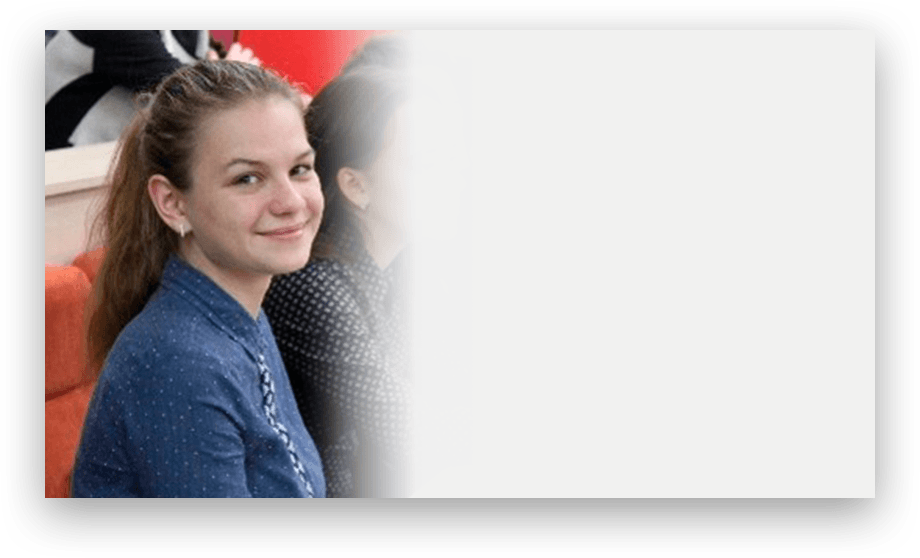
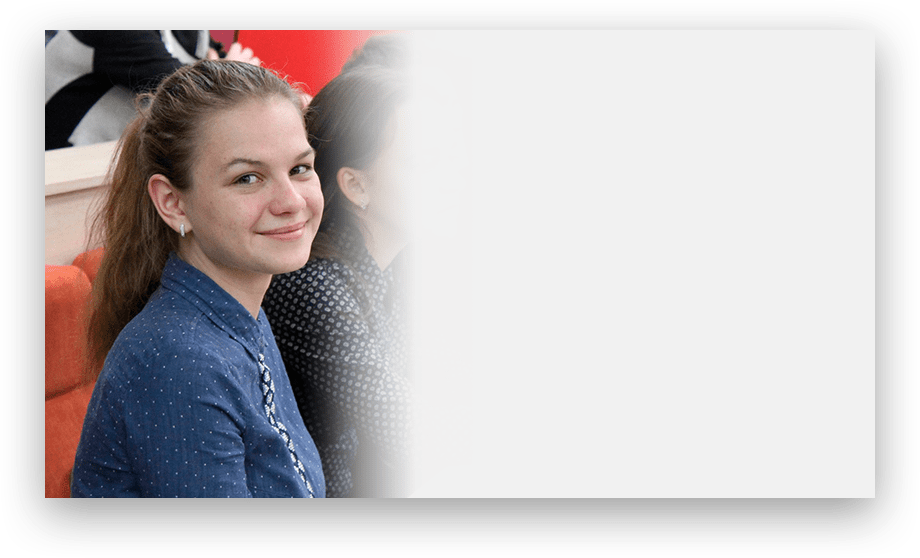
img best qlt + fix modal oframe video

diff --git a/index.html b/index.html
@@ -649,7 +649,7 @@
 	   /*$('#myModalvideo').on('hidden.bs.modal', function () {
 	     $('iframe[src*="https://www.youtube.com/"]').attr('src', $('iframe').attr('src'));
 	   });*/
-	   $('.close').click(function () {
+	   $('.close, .modal').click(function () {
 	     $('#myModalvideo').hide();
 	     $('#myModalvideo iframe').attr("src", jQuery("#myModalvideo iframe").attr("src"));
 	   });
